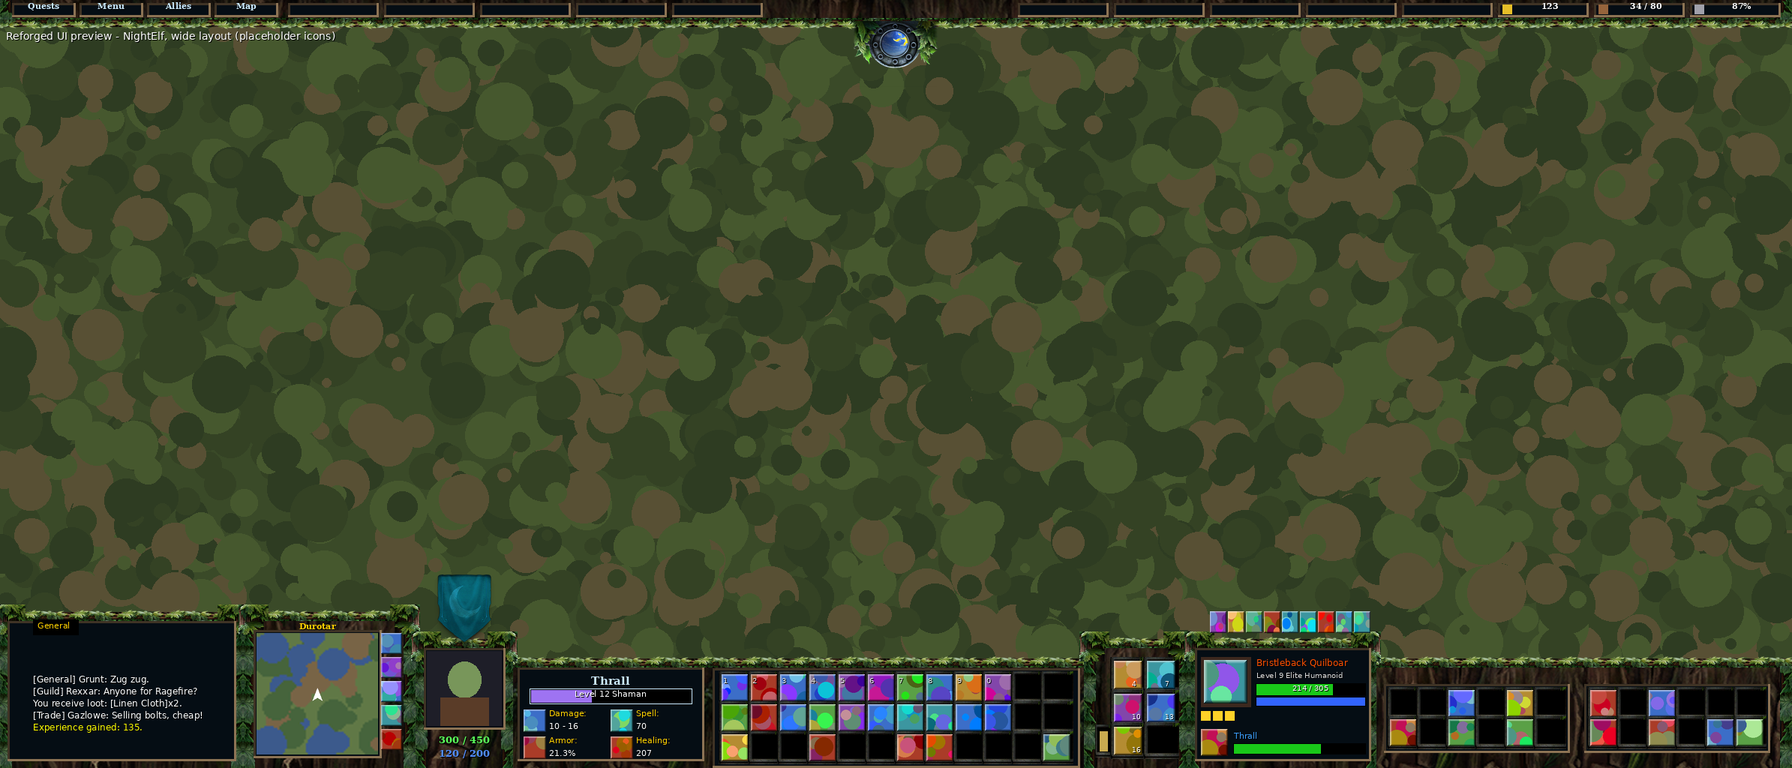
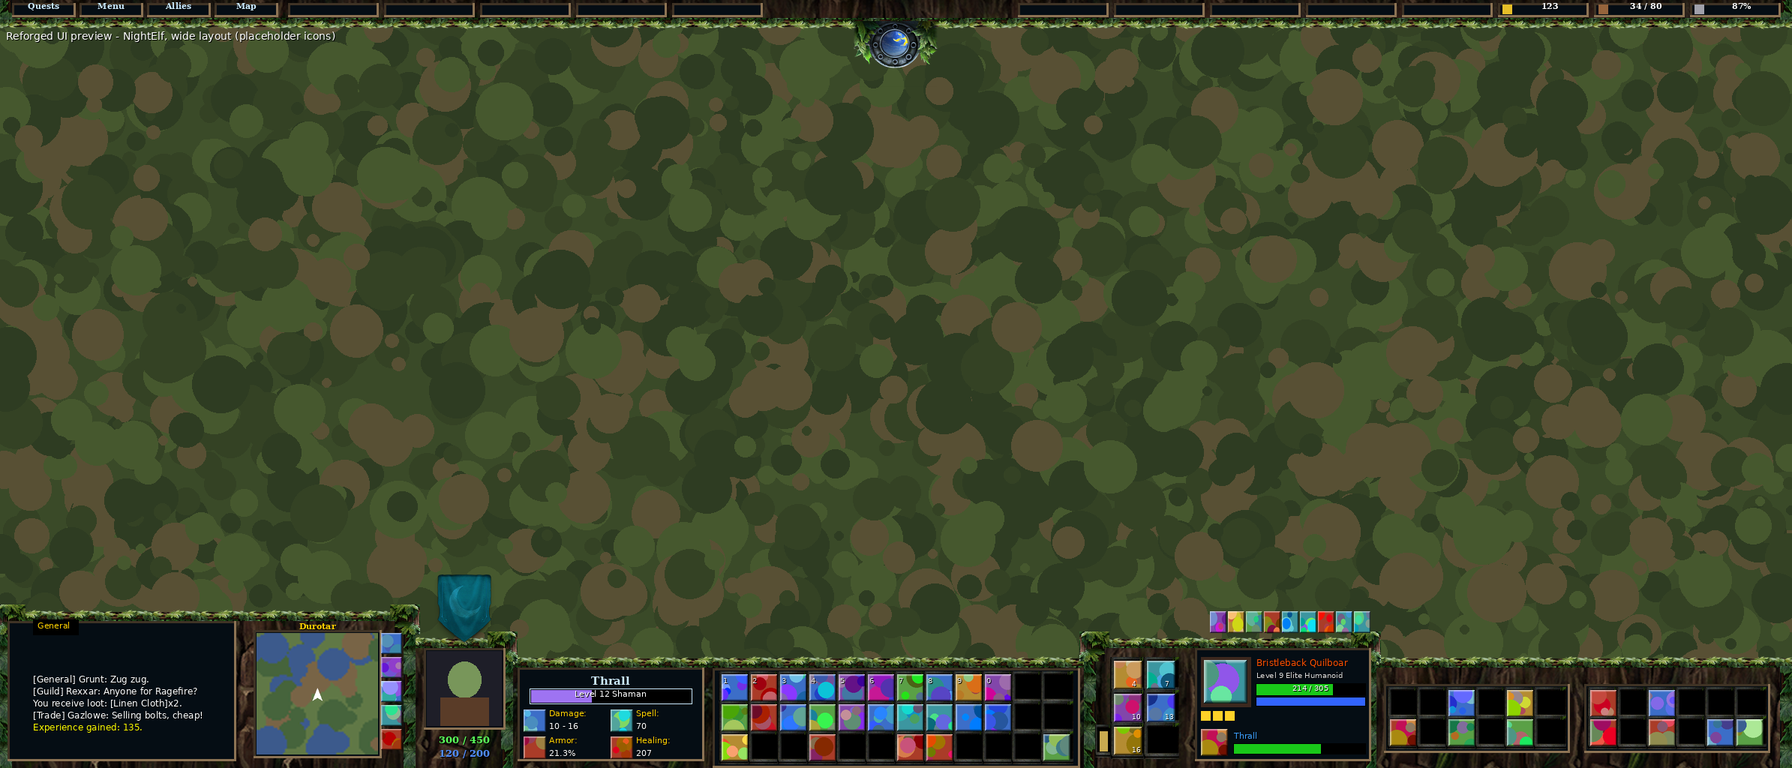
Join touching console panels and fix the top bar Menu button
Panels that touch a neighbour at least as tall leave that side open (no side
trim, no corner cap), so the console reads as one stepped wall instead of a
row of boxes with doubled caps. The Menu button opens the game menu directly
(the micro button opens on mouse-up, so a secure click on it did nothing),
top bar buttons fire on mouse-up only, and /rui's help no longer loses its
"|" characters in chat.

Claude-Session: https://claude.ai/code/session_01MegZrViDEDB2pBaA6M8VJg

Changed region(s): [[0.625, 0.8125, 0.75, 1.0], [0.125, 0.7812, 0.2188, 1.0], [0.2188, 0.8125, 0.2812, 1.0]]

diff --git a/tools/render_preview.py b/tools/render_preview.py
@@ -103,17 +103,22 @@ def load(faction, name):
 
 def panel(c, faction, r, corners):
     fill, edge, edgev, corner = (load(faction, n) for n in ("panel", "edge", "edgev", "corner"))
-    c.tile(fill, r["x"] + 4, r["y"], r["w"] - 8, r["h"] - 4, ox=r["x"] + 4)
+    ol, orr = r.get("openLeft", False), r.get("openRight", False)
+    l, rt = (0 if ol else 4), (0 if orr else 4)
+    c.tile(fill, r["x"] + l, r["y"], r["w"] - l - rt, r["h"] - 4, ox=r["x"] + l)
     # shade toward the bottom
     shade = Image.new("RGBA", (1, 64))
     for i in range(64):
         shade.putpixel((0, i), (0, 0, 0, int(90 * i / 63)))
-    c.paste(shade, r["x"] + 4, r["y"], r["w"] - 8, r["h"] - 4)
-    c.tile(edge, r["x"], r["y"] + r["h"] - 16, r["w"], 16, 64, 16)
-    c.tile(edgev, r["x"], r["y"], 16, r["h"] - 14, 16, 64)
-    c.tile(edgev.transpose(Image.FLIP_LEFT_RIGHT), r["x"] + r["w"] - 16, r["y"], 16, r["h"] - 14, 16, 64)
-    if corners:
+    c.paste(shade, r["x"] + l, r["y"], r["w"] - l - rt, r["h"] - 4)
+    c.tile(edge, r["x"], r["y"] + r["h"] - 16, r["w"], 16, 64, 16, ox=r["x"])
+    if not ol:
+        c.tile(edgev, r["x"], r["y"], 16, r["h"] - 14, 16, 64)
+    if not orr:
+        c.tile(edgev.transpose(Image.FLIP_LEFT_RIGHT), r["x"] + r["w"] - 16, r["y"], 16, r["h"] - 14, 16, 64)
+    if corners and not ol:
         c.paste(corner.transpose(Image.FLIP_LEFT_RIGHT), r["x"] - 6, r["y"] + r["h"] - 34, 40, 40)
+    if corners and not orr:
         c.paste(corner, r["x"] + r["w"] - 34, r["y"] + r["h"] - 34, 40, 40)
 
 
